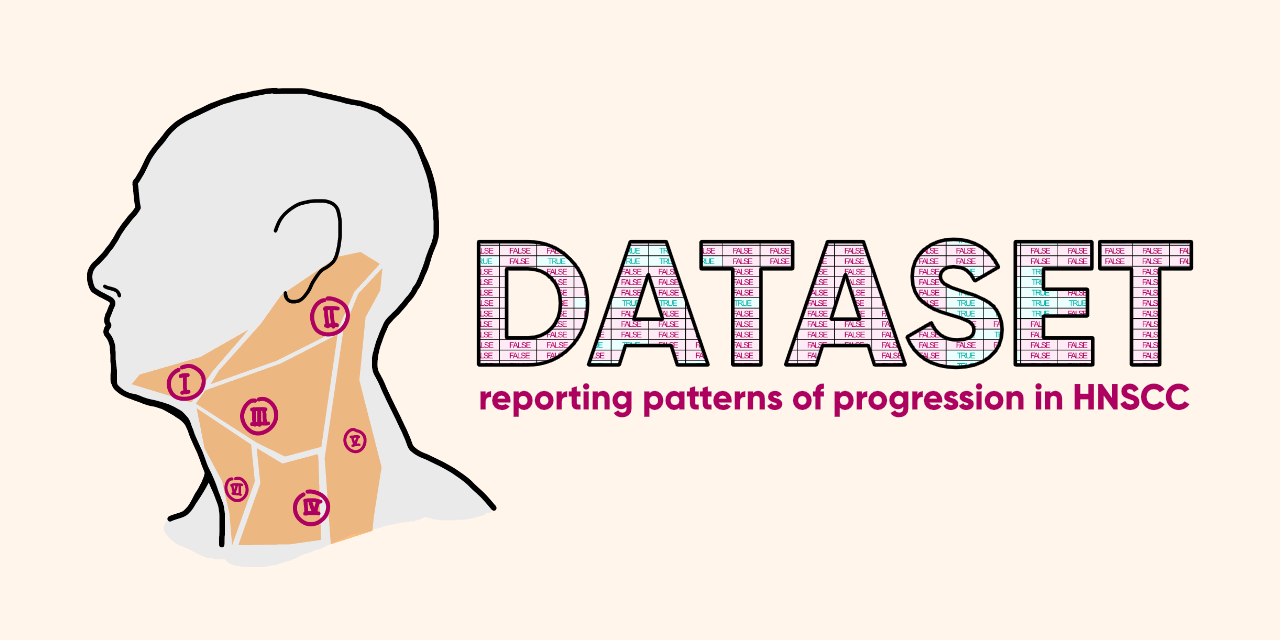
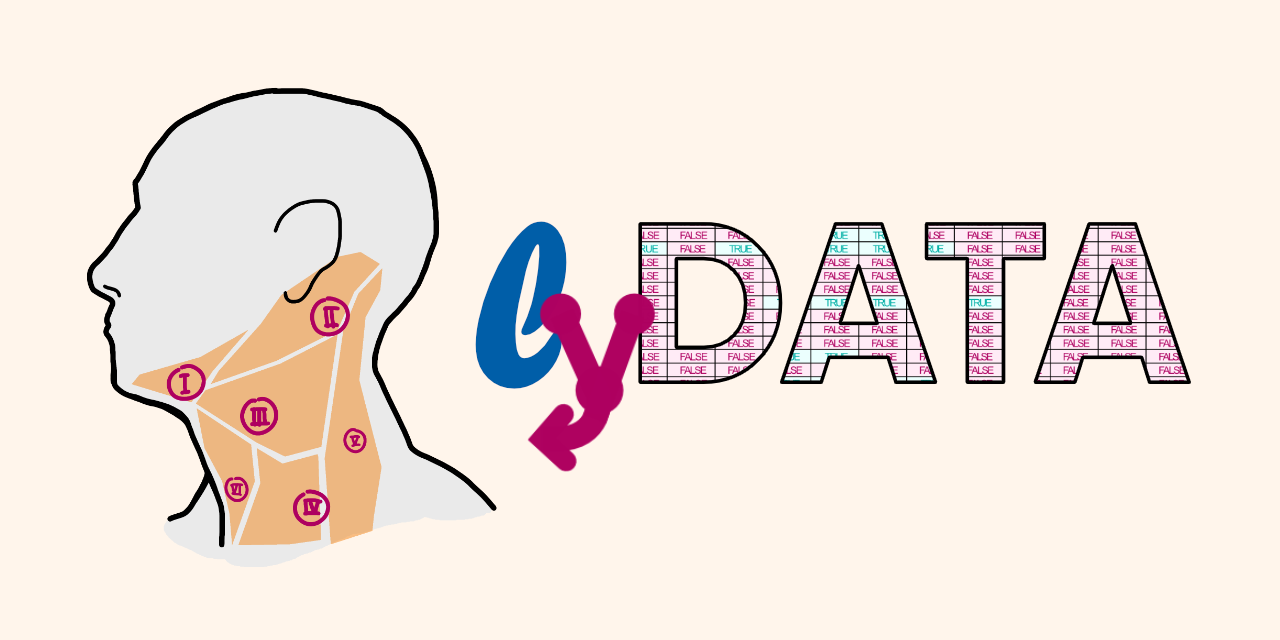
restructured repo to allow more data in the future

Changed region(s): [[0.3438, 0.3438, 0.9375, 0.75]]

diff --git a/README.rst b/README.rst
@@ -1,0 +1,66 @@
+.. warning:: 
+    The content here is still subject to significant change.
+
+.. image:: ./github-social-card.png
+
+
+What is lyDATA?
+===============
+
+lyDATA is a repository for datasets that report detailed patterns of lymphatic progression for head & neck squamous cell carcinoma (HNSCC).
+
+
+Motivation
+==========
+
+HNSCC spreads though the lymphatic system of the neck and forms metastases in regional lymph nodes. Macroscopic metastases can be detected with imaging modalities like MRI, PET and CT scans. They are then consequently included in the target volume, when radiotherapy is chosen as part of the treatment. However, microscopic metastases are too small be diagnosed with current imaging techniques.
+
+To account for this microscopic involvement, parts of the lymphatic system are often irradiated electively to increase tumor control. Which parts are included in this elective clinical target volume is curretnly decided based on guidelines like [1]_, [2]_, [3]_ and [4]_. These in turn are derived from reports of the prevalence of involvement per lymph node level (LNL), i.e. the portion of patients that were diagnosed with metastases in any given LNL, stratified by primary tumor location. It is recommended to include a LNL in the elective target volume if 10 - 15% of patients showed involvement in that particular level.
+
+However, while the prevalence of involvement has been reported in the literature, e.g. in [5]_ and [6]_, and the general lymph drainage pathways are understood well, the detailed progression patterns of HNSCC remain poorly quantified. We believe that the risk for microscopic involvement in an LNL depends highly on the specific diagnose of a particular patient and their treatment can hence be personalized if the progression patterns were better quantified.
+
+
+Goal
+====
+
+In this repository we aim to provide data on the detailed lymphatic progression patterns extracted from patients of the University Hospital Zurch (USZ). The data can be used freely and we hope clincians in the field find it useful as well. Ideally, we can motivate other researchers to share their data in similar detail and openness, so that large multicentric datasets can be built.
+
+
+Available datasets
+==================
+
+2021 oropharynx
+---------------
+
+The first dataset we are able to share consists of 287 patients with a primary tumor in the oropharynx, treated at our institution between 2013 and 2019. We published a `paper <green-journal>`_ on it and descibe the data in more detail `here <data-in-brief>`_. It can be found in the folder ``2021-oropharynx`` alongside a ``jupyter`` notebook that was used to create the figures in the mentioned publication.
+
+stay tuned for more...
+----------------------
+
+We are in the process of collecting more data of patients with primary tumors in other locations.
+
+
+Further reading
+===============
+
+LyProX Interface
+----------------
+
+The data in this repository can be explored interactively in our online interface `LyProX <https://lyprox.org>`_ `(GitHub repo) <https://github.com/rmnldwg/lyprox>`_.
+
+
+Probabilistic models
+--------------------
+
+We have developed and implemented probabilistic models for lymphatic tumor progression ([7]_, [8]_) that may allow for highly personalized risk predictions in the future. These models can be trained using the dataset(s) in this repository. For details on the implementation, check out the `lymph <https://github.com/rmnldwg/lymph>`_ package.
+
+
+References
+==========
+
+.. [1] Vincent Grégoire and Others, "Selection and delineation of lymph node target volumes in head and neck conformal radiotherapy. Proposal for standardizing terminology and procedure based on the surgical experience", Radiother. Oncol., vol. 56, pp. 135–150, 2000, doi: https://doi.org/10.1016/S0167-8140(00)00202-4.
+.. [2] Vincent Grégoire, A. Eisbruch, M. Hamoir, and P. Levendag, "Proposal for the delineation of the nodal CTV in the node-positive and the post-operative neck", Radiotherapy and Oncology, vol. 79, no. 1, pp. 15–20, Apr. 2006, doi: https://doi.org/10.1016/j.radonc.2006.03.009.
+.. [3] Vincent Grégoire et al., "Delineation of the neck node levels for head and neck tumors: A 2013 update. DAHANCA, EORTC, HKNPCSG, NCIC CTG, NCRI, RTOG, TROG consensus guidelines", Radiotherapy and Oncology, vol. 110, no. 1, pp. 172–181, Jan. 2014, doi: https://doi.org/10.1016/j.radonc.2013.10.010.
+.. [4] Julian Biau et al., "Selection of lymph node target volumes for definitive head and neck radiation therapy: a 2019 Update", Radiotherapy and Oncology, vol. 134, pp. 1–9, May 2019, doi: https://doi.org/10.1016/j.radonc.2019.01.018.
+.. [5] Jatin. P. Shah, F. C. Candela, and A. K. Poddar, "The patterns of cervical lymph node metastases from squamous carcinoma of the oral cavity", Cancer, vol. 66, no. 1, pp. 109–113, 1990, doi: https://doi.org/10.1002/1097-0142(19900701)66:1<109::AID-CNCR2820660120>3.0.CO;2-A.
+.. [6] Laurence Bauwens et al., "Prevalence and distribution of cervical lymph node metastases in HPV-positive and HPV-negative oropharyngeal squamous cell carcinoma", Radiother Oncol, vol. 157, pp. 122–129, Apr. 2021, doi: https://doi.org/10.1016/j.radonc.2021.01.028.
